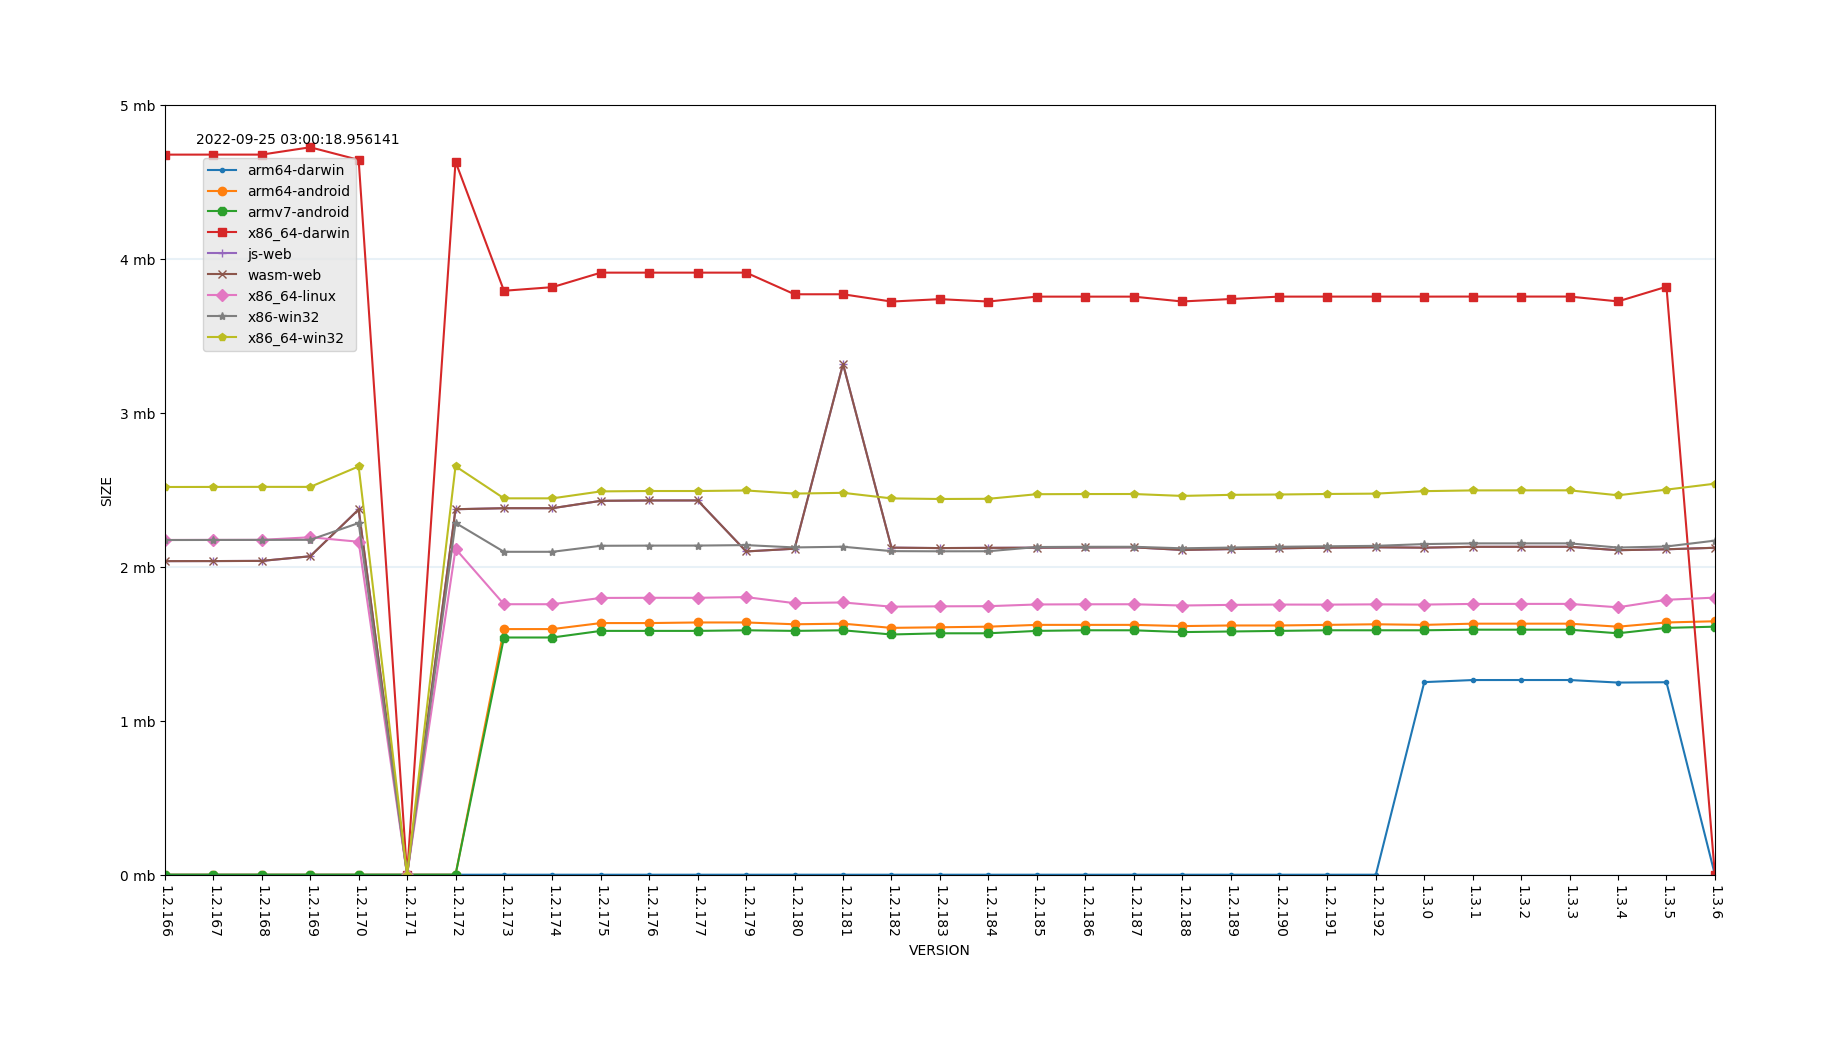
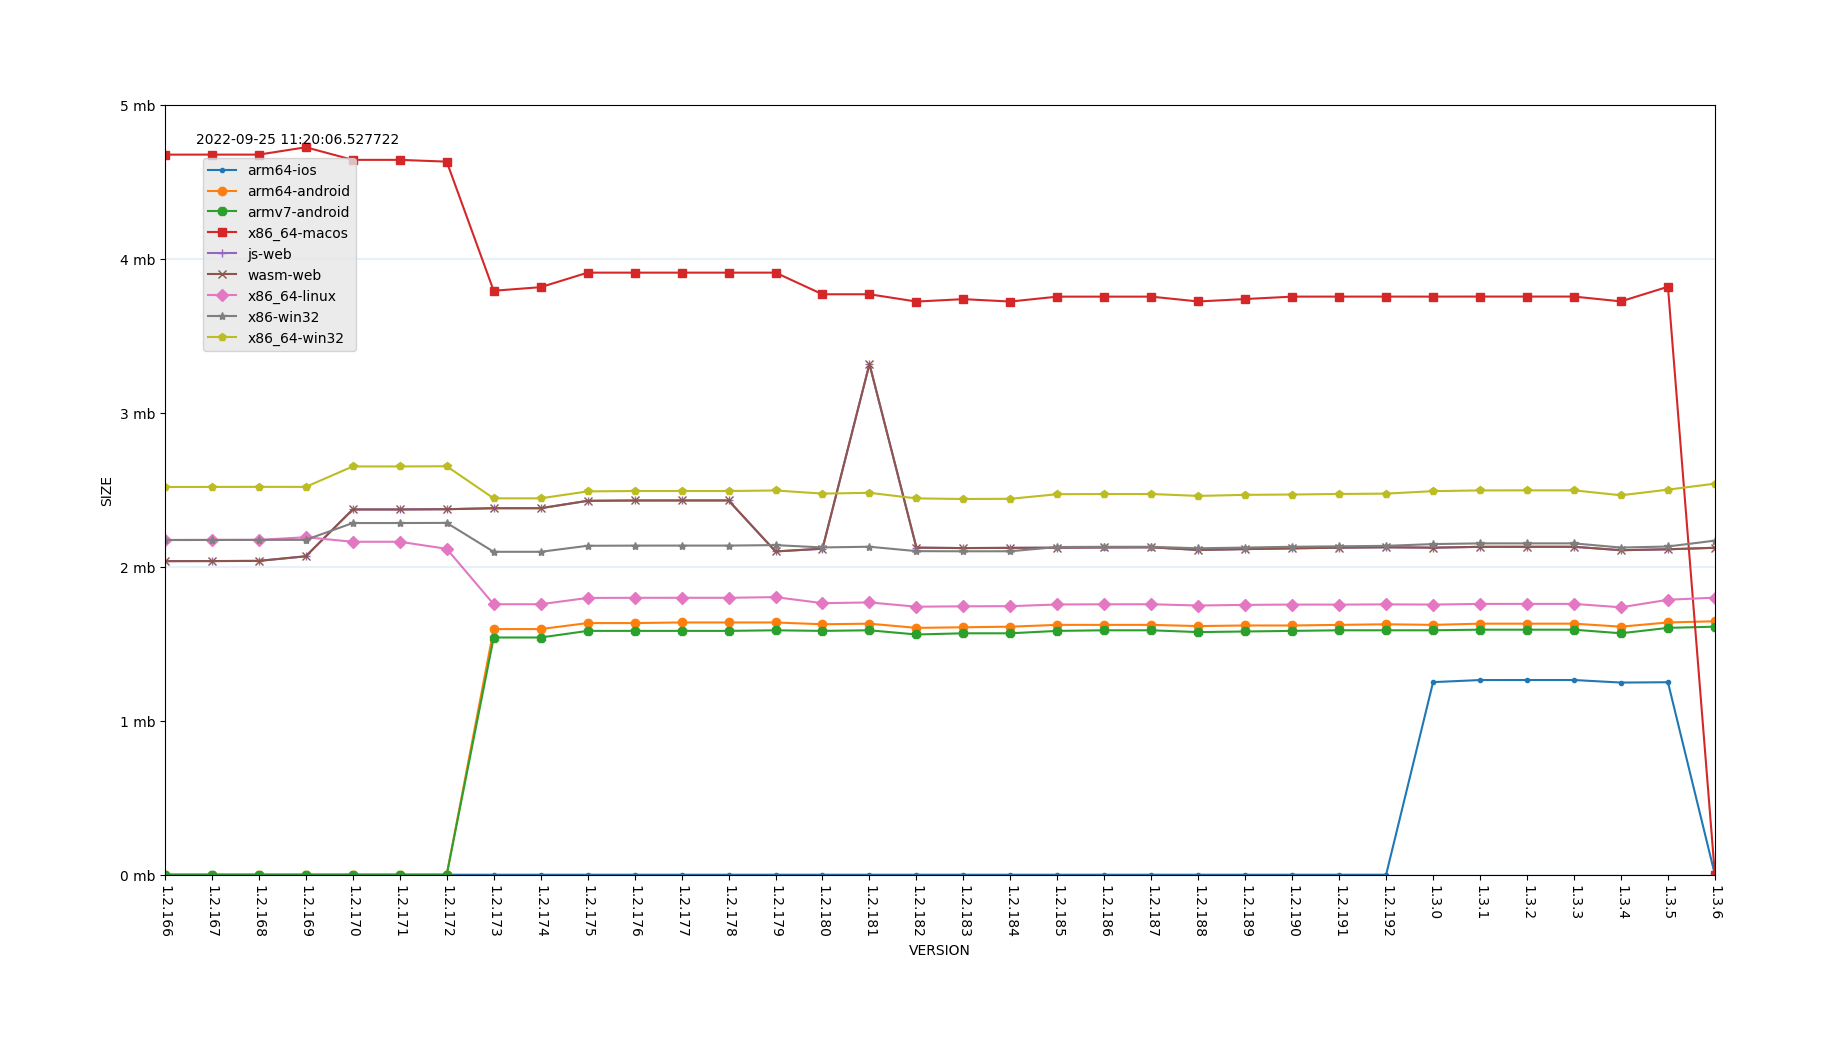
Renamed darwin to macos/ios. Added results for 1.2.171+178.

diff --git a/check_size.py b/check_size.py
@@ -38,10 +38,10 @@ legacy_engines = [
 ]
 
 engines = [
-    {"platform": "arm64-darwin",    "filename": "dmengine_release"},
+    {"platform": "arm64-ios",       "filename": "dmengine_release"},
     {"platform": "arm64-android",   "filename": "libdmengine_release.so"},
     {"platform": "armv7-android",   "filename": "libdmengine_release.so"},
-    {"platform": "x86_64-darwin",   "filename": "dmengine_release"},
+    {"platform": "x86_64-macos",    "filename": "dmengine_release"},
     {"platform": "js-web",          "filename": "dmengine_release.js"},
     {"platform": "wasm-web",        "filename": "dmengine_release.wasm"},
     {"platform": "x86_64-linux",    "filename": "dmengine_release"},
@@ -50,10 +50,10 @@ engines = [
 ]
 
 bundles = [
-    {"platform": "arm64-darwin",    "filename": "notused"},
+    {"platform": "arm64-ios",       "filename": "notused"},
     {"platform": "arm64-android",   "filename": "notused"},
     {"platform": "armv7-android",   "filename": "notused"},
-    {"platform": "x86_64-darwin",   "filename": "notused"},
+    {"platform": "x86_64-macos",    "filename": "notused"},
     {"platform": "js-web",          "filename": "notused"},
     {"platform": "wasm-web",        "filename": "notused"},
     {"platform": "x86_64-linux",    "filename": "notused"},
@@ -158,13 +158,13 @@ def get_bundle_size_from_bob(sha1, platform, _):
 
         if platform in ("armv7-android", "arm64-android"):
             return os.path.getsize("bundle_output/unnamed/unnamed.apk")
-        elif platform in ("arm64-darwin"):
+        elif platform in ("arm64-ios","x86_64-ios","arm64-darwin"):
             return os.path.getsize("bundle_output/unnamed.ipa")
-        elif platform in ("x86_64-darwin"):
+        elif platform in ("x86_64-macos", "x86_64-darwin"):
             return get_folder_size("bundle_output/unnamed.app")
         elif platform in ("x86_64-win32", "x86-win32"):
             return get_zipped_size("bundle_output")
-        elif platform in ("x86_64-linux"):
+        elif platform in ("x86_64-linux",):
             return get_zipped_size("bundle_output")
         elif platform in ("wasm-web", "js-web"):
             return get_zipped_size("bundle_output")

diff --git a/README.md b/README.md
@@ -38,12 +38,12 @@ If you wish to run this script locally you need to have the following things ins
 
 * Python 3 (developed with 3.10.5)
 * Java 11.0.*
-* [matlibplot](http://matplotlib.org/)
+* [matlibplot](http://matplotlib.org/) (Install with `python3 -m pip install matplotlib`)
 
 # Usage
 Run [check_size.py](check_size.py):
 
-    python check_size.py
+    python3 check_size.py
 
 It will generate these files:
 * [releases.json](releases.json)
